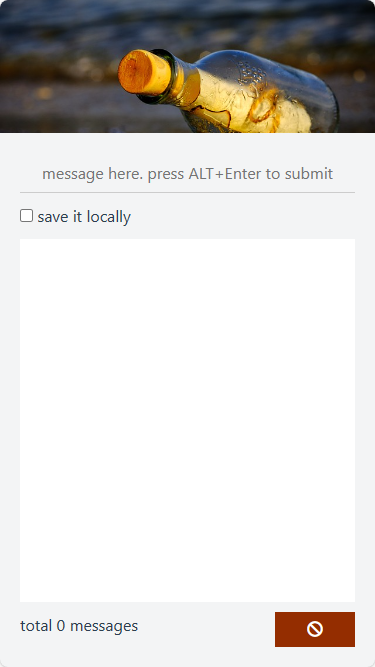
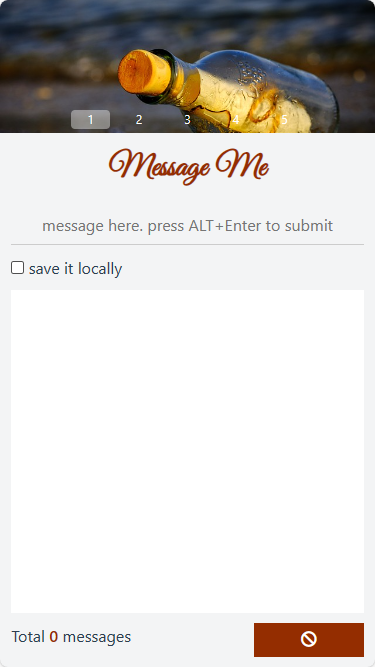
up

diff --git a/vue/drill_todo.html b/vue/drill_todo.html
@@ -20,6 +20,9 @@
       <dd>
         <div>掌握数据绑定</div>
         <div>掌握事件绑定和常用按键事件、事件修饰符</div>
+        <div>掌握网络请求的基本过程</div>
+        <div>掌握生命周期函数的使用</div>
+        <div>掌握样式类的基本使用</div>
         <div>进一步熟悉条件渲染、列表渲染的使用</div>
         <div>进一步熟悉响应式数据的使用</div>
         <div>了解本地存储 <a href="../web/js/storage.html">localStorage</a></div>
@@ -33,13 +36,16 @@
       </dd>
       <dt>实验内容</dt>
       <dd>
-        <div>输入内容，按alt+enter提交；提交时，可以选择是否保存在本地</div>
+        <div>自动轮播</div>
+        <div>输入内容，按alt+enter提交</div>
+        <div>提交时，可以选择是否保存在本地</div>
         <div>内容较长时，应打点提示</div>
         <div>可以删除单个列表项目；也可以全部删除</div>
         <div>统计当前列表项总数</div>
-        <div>自动轮播</div>
-        <div>定制滚动条</div>
-        <div>阿里字体图标</div>
+        <div>定制滚动条 scroll-bar</div>
+        <div>定制字体 @font-face</div>
+        <div>阿里字体图标 iconfont</div>
+        <div>响应式开发 - 移动优先</div>
       </dd>
       <dt>实验步骤</dt>
       <dd>
@@ -48,7 +54,29 @@
 let msgs = ref([])
 let msg = ref('')
 let isRem = ref(false)
-let isFocus = ref(false)</pre>
+let isFocus = ref(false)
+let imgInd = ref(0)
+let imgs = []</pre>
+        <div>轮播结构设计</div>
+        <pre>
+&lt;header class="header" :style="{ 'backgroundImage': 'url(' + imgs[imgInd] + ')' }"&gt;
+  &lt;div class="dot-box"&gt;
+    &lt;div :class="['dot', { 'active': ind == imgInd }]" v-for="(item, ind) in imgs.length " :key="item"&gt;{{ ind }}
+    &lt;/div&gt;
+  &lt;/div&gt;
+&lt;/header&gt;</pre>
+        <div>轮播逻辑 - 加载数据时，利用定时器循环背景图片并相应的调整指示器的样式</div>
+        <pre>
+onMounted(() => {
+  ind = setInterval(() => {
+    updateImg()
+  }, 3000);
+  axios.get('https://glpla.github.io/utils/data/todo.json')
+    .then(res => {
+      console.log(res);
+      msgs.value = res.data.cont
+    })
+})</pre>
         <div>输入框结构设计</div>
         <pre>
 &lt;div class="cont"&gt;
@@ -105,6 +133,12 @@ const loseFocus = () => {
           <figcaption>动态效果</figcaption>
         </figure>
       </dd>
+      <dd>
+        <figure class="img-sn">
+          <img src="./imgs/todo2.png" alt="">
+          <figcaption>动态效果</figcaption>
+        </figure>
+      </dd>
       <dt>实验结果分析与体会</dt>
       <dd>
         <div>掌握的知识点、开发技能</div>
@@ -113,8 +147,9 @@ const loseFocus = () => {
       </dd>
       <dt>实验要求</dt>
       <dd>
-        <div>规范开发；独立完成；突出个人设计特点和风格</div>
-        <div>实验报告：采用学院统一下发的格式文件，以文字说明，配以图片或代码展示并说明实施过程、各部分功能、具体内容和实现细节，导出为PDF，按照要求命名，提交个人学习通作业</div>
+        <div>本案例为期中测试</div>
+        <div>规范开发；独立完成；突出创新、个人设计特点和风格</div>
+        <div>实验报告：采用学院统一下发的格式文件，以文字说明，配以效果图片或核心代码展示并说明数据来源、实施过程、各部分功能、具体内容和实现细节，导出为PDF，按照要求命名，提交个人学习通作业</div>
         <div>未按要求在规定时间内提交视为无效，不得分</div>
       </dd>
     </dl>

diff --git a/vue/drill_cart.html b/vue/drill_cart.html
@@ -148,7 +148,7 @@ const getTotal = computed(() => {
       <dt>实验要求</dt>
       <dd>
         <div>规范开发；独立完成；突出个人设计特点和风格</div>
-        <div>实验报告：采用学院统一下发的格式文件，以文字说明，配以图片或代码展示并说明实施过程、各部分功能、具体内容和实现细节，导出为PDF，按照要求命名，提交个人学习通作业</div>
+        <div>实验报告：采用学院统一下发的格式文件，以文字说明，配以效果图片或核心代码展示并说明数据来源、实施过程、各部分功能、具体内容和实现细节，导出为PDF，按照要求命名，提交个人学习通作业</div>
         <div>未按要求在规定时间内提交视为无效，不得分</div>
       </dd>
       <dt>拓展</dt>

diff --git a/vue/drill_product.html b/vue/drill_product.html
@@ -104,7 +104,7 @@ app.get('/food', (req, res) => {
       <dt>实验要求</dt>
       <dd>
         <div>规范开发；独立完成；突出个人设计特点和风格</div>
-        <div>实验报告：采用学院统一下发的格式文件，以文字说明，配以图片或代码展示并说明实施过程、各部分功能、具体内容和实现细节，导出为PDF，按照要求命名，提交个人学习通作业</div>
+        <div>实验报告：采用学院统一下发的格式文件，以文字说明，配以效果图片或核心代码展示并说明数据来源、实施过程、各部分功能、具体内容和实现细节，导出为PDF，按照要求命名，提交个人学习通作业</div>
         <div>未按要求在规定时间内提交视为无效，不得分</div>
       </dd>
       <dt>拓展</dt>

diff --git a/vue/drill_server.html b/vue/drill_server.html
@@ -98,7 +98,7 @@ app.listen(3000, () => {
       <dt>实验要求</dt>
       <dd>
         <div>规范开发；独立完成；突出个人设计特点和风格</div>
-        <div>实验报告：采用学院统一下发的格式文件，以文字说明，配以图片或代码展示并说明实施过程、各部分功能、具体内容和实现细节，导出为PDF，按照要求命名，提交个人学习通作业</div>
+        <div>实验报告：采用学院统一下发的格式文件，以文字说明，配以效果图片或核心代码展示并说明数据来源、实施过程、各部分功能、具体内容和实现细节，导出为PDF，按照要求命名，提交个人学习通作业</div>
         <div>未按要求在规定时间内提交视为无效，不得分</div>
       </dd>
     </dl>

diff --git a/vue/drill_cart_up.html b/vue/drill_cart_up.html
@@ -52,7 +52,7 @@
       <dt>实验要求</dt>
       <dd>
         <div>规范开发；独立完成；突出个人设计特点和风格</div>
-        <div>实验报告：采用学院统一下发的格式文件，以文字说明，配以图片或代码展示并说明实施过程、各部分功能、具体内容和实现细节，导出为PDF，按照要求命名，提交个人学习通作业</div>
+        <div>实验报告：采用学院统一下发的格式文件，以文字说明，配以效果图片或核心代码展示并说明数据来源、实施过程、各部分功能、具体内容和实现细节，导出为PDF，按照要求命名，提交个人学习通作业</div>
         <div>未按要求在规定时间内提交视为无效，不得分</div>
       </dd>
     </dl>

diff --git a/vue/drill_jsonserver.html b/vue/drill_jsonserver.html
@@ -91,7 +91,7 @@
       <dt>实验要求</dt>
       <dd>
         <div>规范开发；独立完成；突出个人设计特点和风格</div>
-        <div>实验报告：采用学院统一下发的格式文件，以文字说明，配以图片或代码展示并说明实施过程、各部分功能、具体内容和实现细节，导出为PDF，按照要求命名，提交个人学习通作业</div>
+        <div>实验报告：采用学院统一下发的格式文件，以文字说明，配以效果图片或核心代码展示并说明数据来源、实施过程、各部分功能、具体内容和实现细节，导出为PDF，按照要求命名，提交个人学习通作业</div>
         <div>未按要求在规定时间内提交视为无效，不得分</div>
       </dd>
     </dl>

diff --git a/css/exp.css b/css/exp.css
@@ -16,6 +16,8 @@ h4,
 dl,
 dt,
 dd,
+figure,
+figcaption,
 p {
   margin: 0;
   padding: 0;
